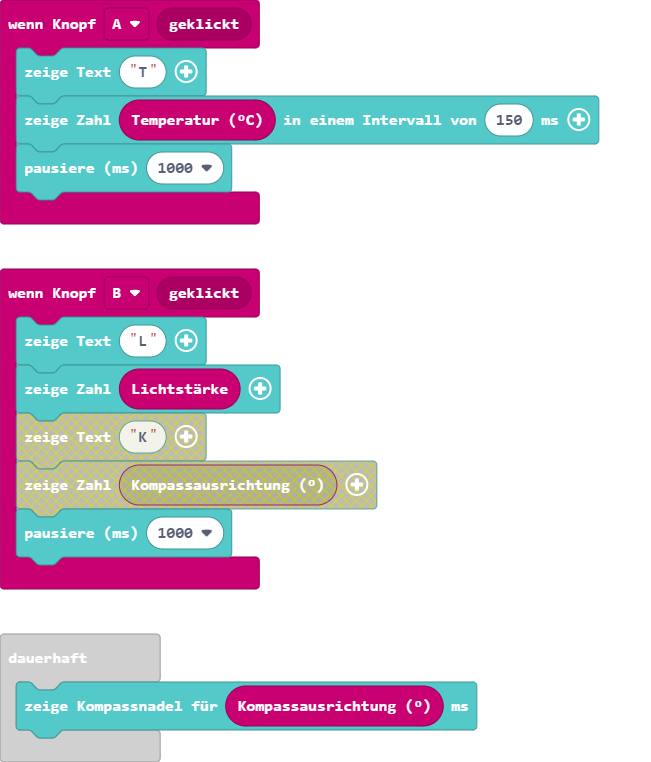
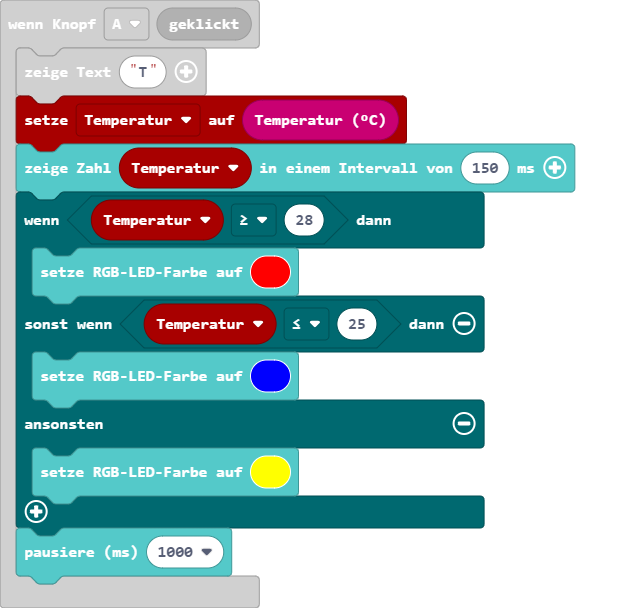
Aktualisiere main.blocks, main.ts

diff --git a/main.ts b/main.ts
@@ -1,6 +1,15 @@
+let Temperatur = 0
 input.onButtonEvent(Button.A, input.buttonEventClick(), function () {
     basic.showString("T")
-    basic.showNumber(input.temperature())
+    Temperatur = input.temperature()
+    basic.showNumber(Temperatur)
+    if (Temperatur >= 28) {
+        basic.setLedColor(0xff0000)
+    } else if (Temperatur <= 25) {
+        basic.setLedColor(0x0000ff)
+    } else {
+        basic.setLedColor(0xffff00)
+    }
     basic.pause(1000)
 })
 input.onButtonEvent(Button.B, input.buttonEventClick(), function () {
